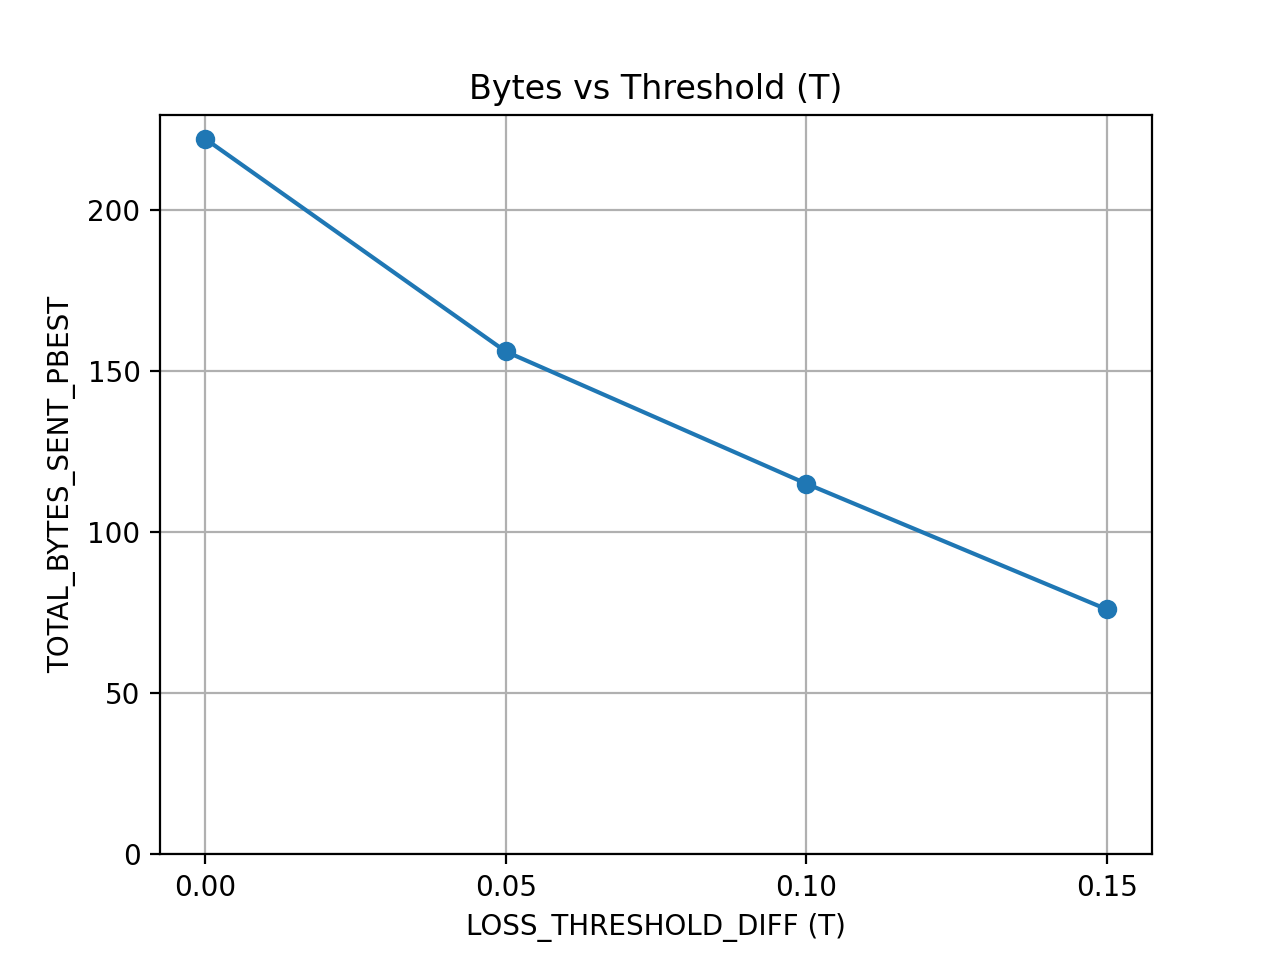
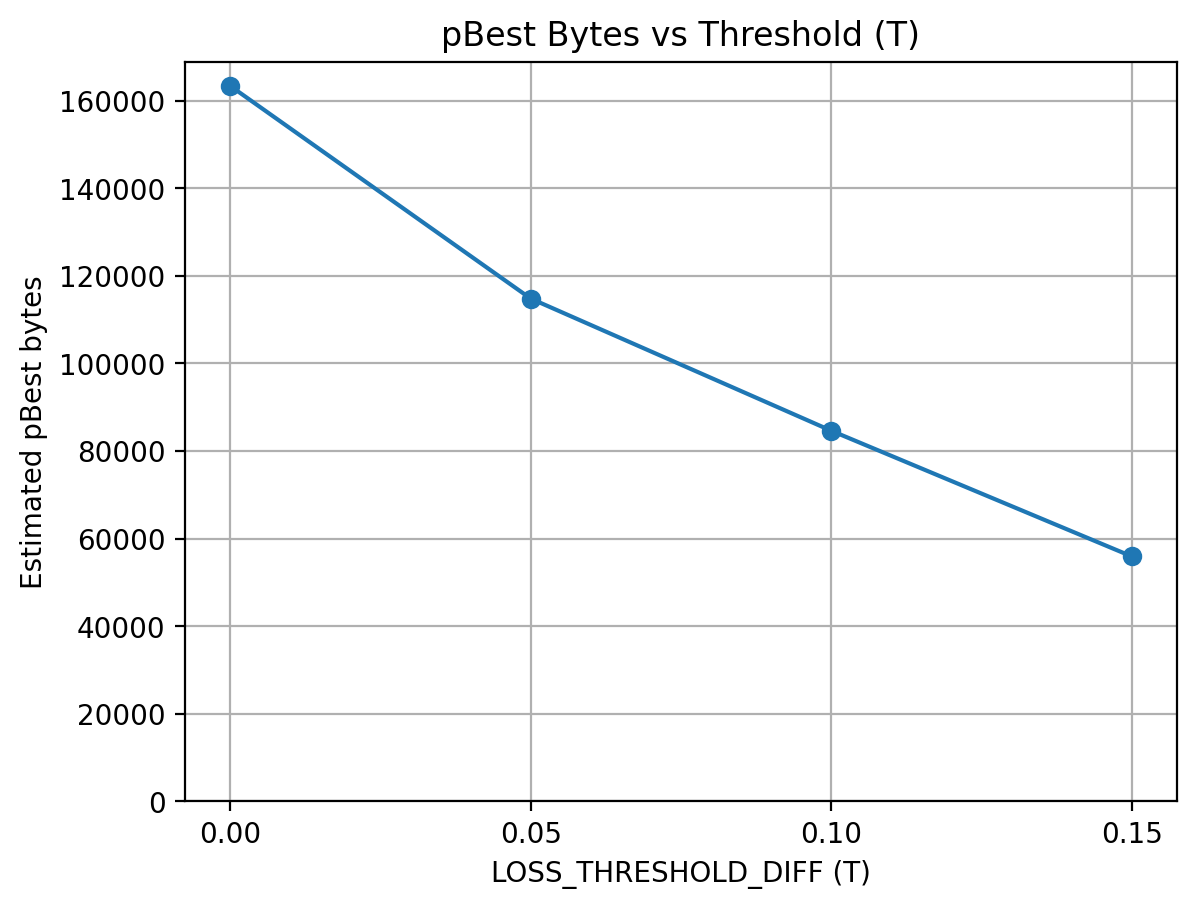
bf

diff --git a/plot_exp_results.py b/plot_exp_results.py
@@ -1,21 +1,35 @@
-
 from pathlib import Path
-import pandas as pd
-import matplotlib.pyplot as plt
 import os
 
+import pandas as pd
+import matplotlib.pyplot as plt
 from dotenv import load_dotenv
-loaded = load_dotenv("java/.env")
 
-# ==========================================================================================================
+load_dotenv("java/.env")
+
+
+def compute_pbest_bytes(df: pd.DataFrame) -> pd.Series:
+    """
+    Estimate pBest bytes when CSV only has TOTAL_BYTES_SENT overall.
+    Assumes average bytes/message applies to pBest too.
+    """
+    total_bytes = df["TOTAL_BYTES_SENT"].astype(float)
+    total_msgs = df["TOTAL_MESSAGES_SENT"].astype(float).replace(0, pd.NA)
+    pbest_msgs = df["TOTAL_MESSAGES_SENT_PBEST"].astype(float)
+
+    bytes_per_msg = (total_bytes / total_msgs).fillna(0.0)
+    pbest_bytes = pbest_msgs * bytes_per_msg
+    return pbest_bytes
+
 
 def main():
+    mode = os.getenv("EXPERIMENTATION_MODE", "").strip()
+    experimentation_dir = os.getenv("EXPERIMENTATION_DIR", "").strip()
 
-    mode = os.getenv("EXPERIMENTATION_MODE")
-    experimentation_dir = os.getenv("EXPERIMENTATION_DIR")
+    if not experimentation_dir:
+        raise RuntimeError("EXPERIMENTATION_DIR is not set in java/.env")
 
-    # =================================================================================
-
+    # Choose CSV + x-axis + plots by mode
     if mode == "THRESHOLD":
         csv_path = Path(f"java/{experimentation_dir}/results_threshold.csv")
         xcol = "LOSS_THRESHOLD_DIFF"
@@ -23,10 +37,8 @@ def main():
         suffix = "threshold"
         plots = [
             ("GBEST_ACC", "GBEST_ACC", "Accuracy vs Threshold (T)", "accuracy"),
-            ("TOTAL_MESSAGES_SENT_PBEST", "TOTAL_BYTES_SENT_PBEST", "Bytes vs Threshold (T)", "bytes"),
-        ]    
-
-    # =================================================================================
+            ("PBEST_BYTES_EST", "Estimated pBest bytes", "pBest Bytes vs Threshold (T)", "bytes"),
+        ]
 
     elif mode == "FILTER_ENABLED":
         csv_path = Path(f"java/{experimentation_dir}/results_filter_enabled.csv")
@@ -39,11 +51,10 @@ def main():
             ("TOTAL_BYTES_SENT", "TOTAL_BYTES_SENT", "Bytes vs FILTER_ENABLED", "bytes"),
         ]
 
-    # =================================================================================
-
     else:
+        # default: N_WORKERS experiments
         csv_path = Path(f"java/{experimentation_dir}/results_n_workers.csv")
-        xcol = "N_WORKERS"  # use for x in the plot the field of the .csv N_WORKERS
+        xcol = "N_WORKERS"
         xlabel = "N_WORKERS"
         suffix = "workers"
         plots = [
@@ -52,39 +63,50 @@ def main():
             ("TOTAL_BYTES_SENT", "TOTAL_BYTES_SENT", "Bytes vs N_WORKERS", "bytes"),
         ]
 
-    # =================================================================================
-
     if not csv_path.exists():
         raise FileNotFoundError(f"CSV not found: {csv_path}")
 
     outdir = csv_path.parent
-    df = pd.read_csv(csv_path).sort_values(xcol)
+    df = pd.read_csv(csv_path)
+
+    if xcol not in df.columns:
+        raise KeyError(f"CSV missing x column '{xcol}'. Columns: {list(df.columns)}")
+
+    df[xcol] = pd.to_numeric(df[xcol], errors="coerce")
+    df = df.sort_values(xcol)
+
+    if "TOTAL_MESSAGES_SENT_PBEST" in df.columns and "TOTAL_MESSAGES_SENT" in df.columns and "TOTAL_BYTES_SENT" in df.columns:
+        df["PBEST_BYTES_EST"] = compute_pbest_bytes(df)
 
     xs = df[xcol].tolist()
 
     saved = []
     for ycol, ylabel, title, tag in plots:
+        if ycol not in df.columns:
+            raise KeyError(f"CSV missing y column '{ycol}' needed for plot '{title}'. Columns: {list(df.columns)}")
+
+        ys = pd.to_numeric(df[ycol], errors="coerce").fillna(0.0).tolist()
+
         plt.figure()
-        plt.plot(xs, df[ycol].tolist(), marker="o")
+        plt.plot(xs, ys, marker="o")
         plt.ylim(bottom=0)
         plt.xlabel(xlabel)
         plt.ylabel(ylabel)
         plt.title(title)
-        plt.xticks(xs)
+        plt.xticks(xs)  # ok for small number of discrete x values
         plt.grid(True)
+
         outpath = outdir / f"{csv_path.stem}_{tag}_vs_{suffix}.png"
-        plt.savefig(outpath, dpi=200)
+        plt.savefig(outpath, dpi=200, bbox_inches="tight")
         plt.close()
         saved.append(outpath)
 
-    print("Mode:", mode)
+    print("Mode:", mode or "(default N_WORKERS)")
     print("CSV :", csv_path)
     print("Saved:")
-
     for p in saved:
         print(" -", p)
 
-# ==========================================================================================================
 
 if __name__ == "__main__":
     main()
